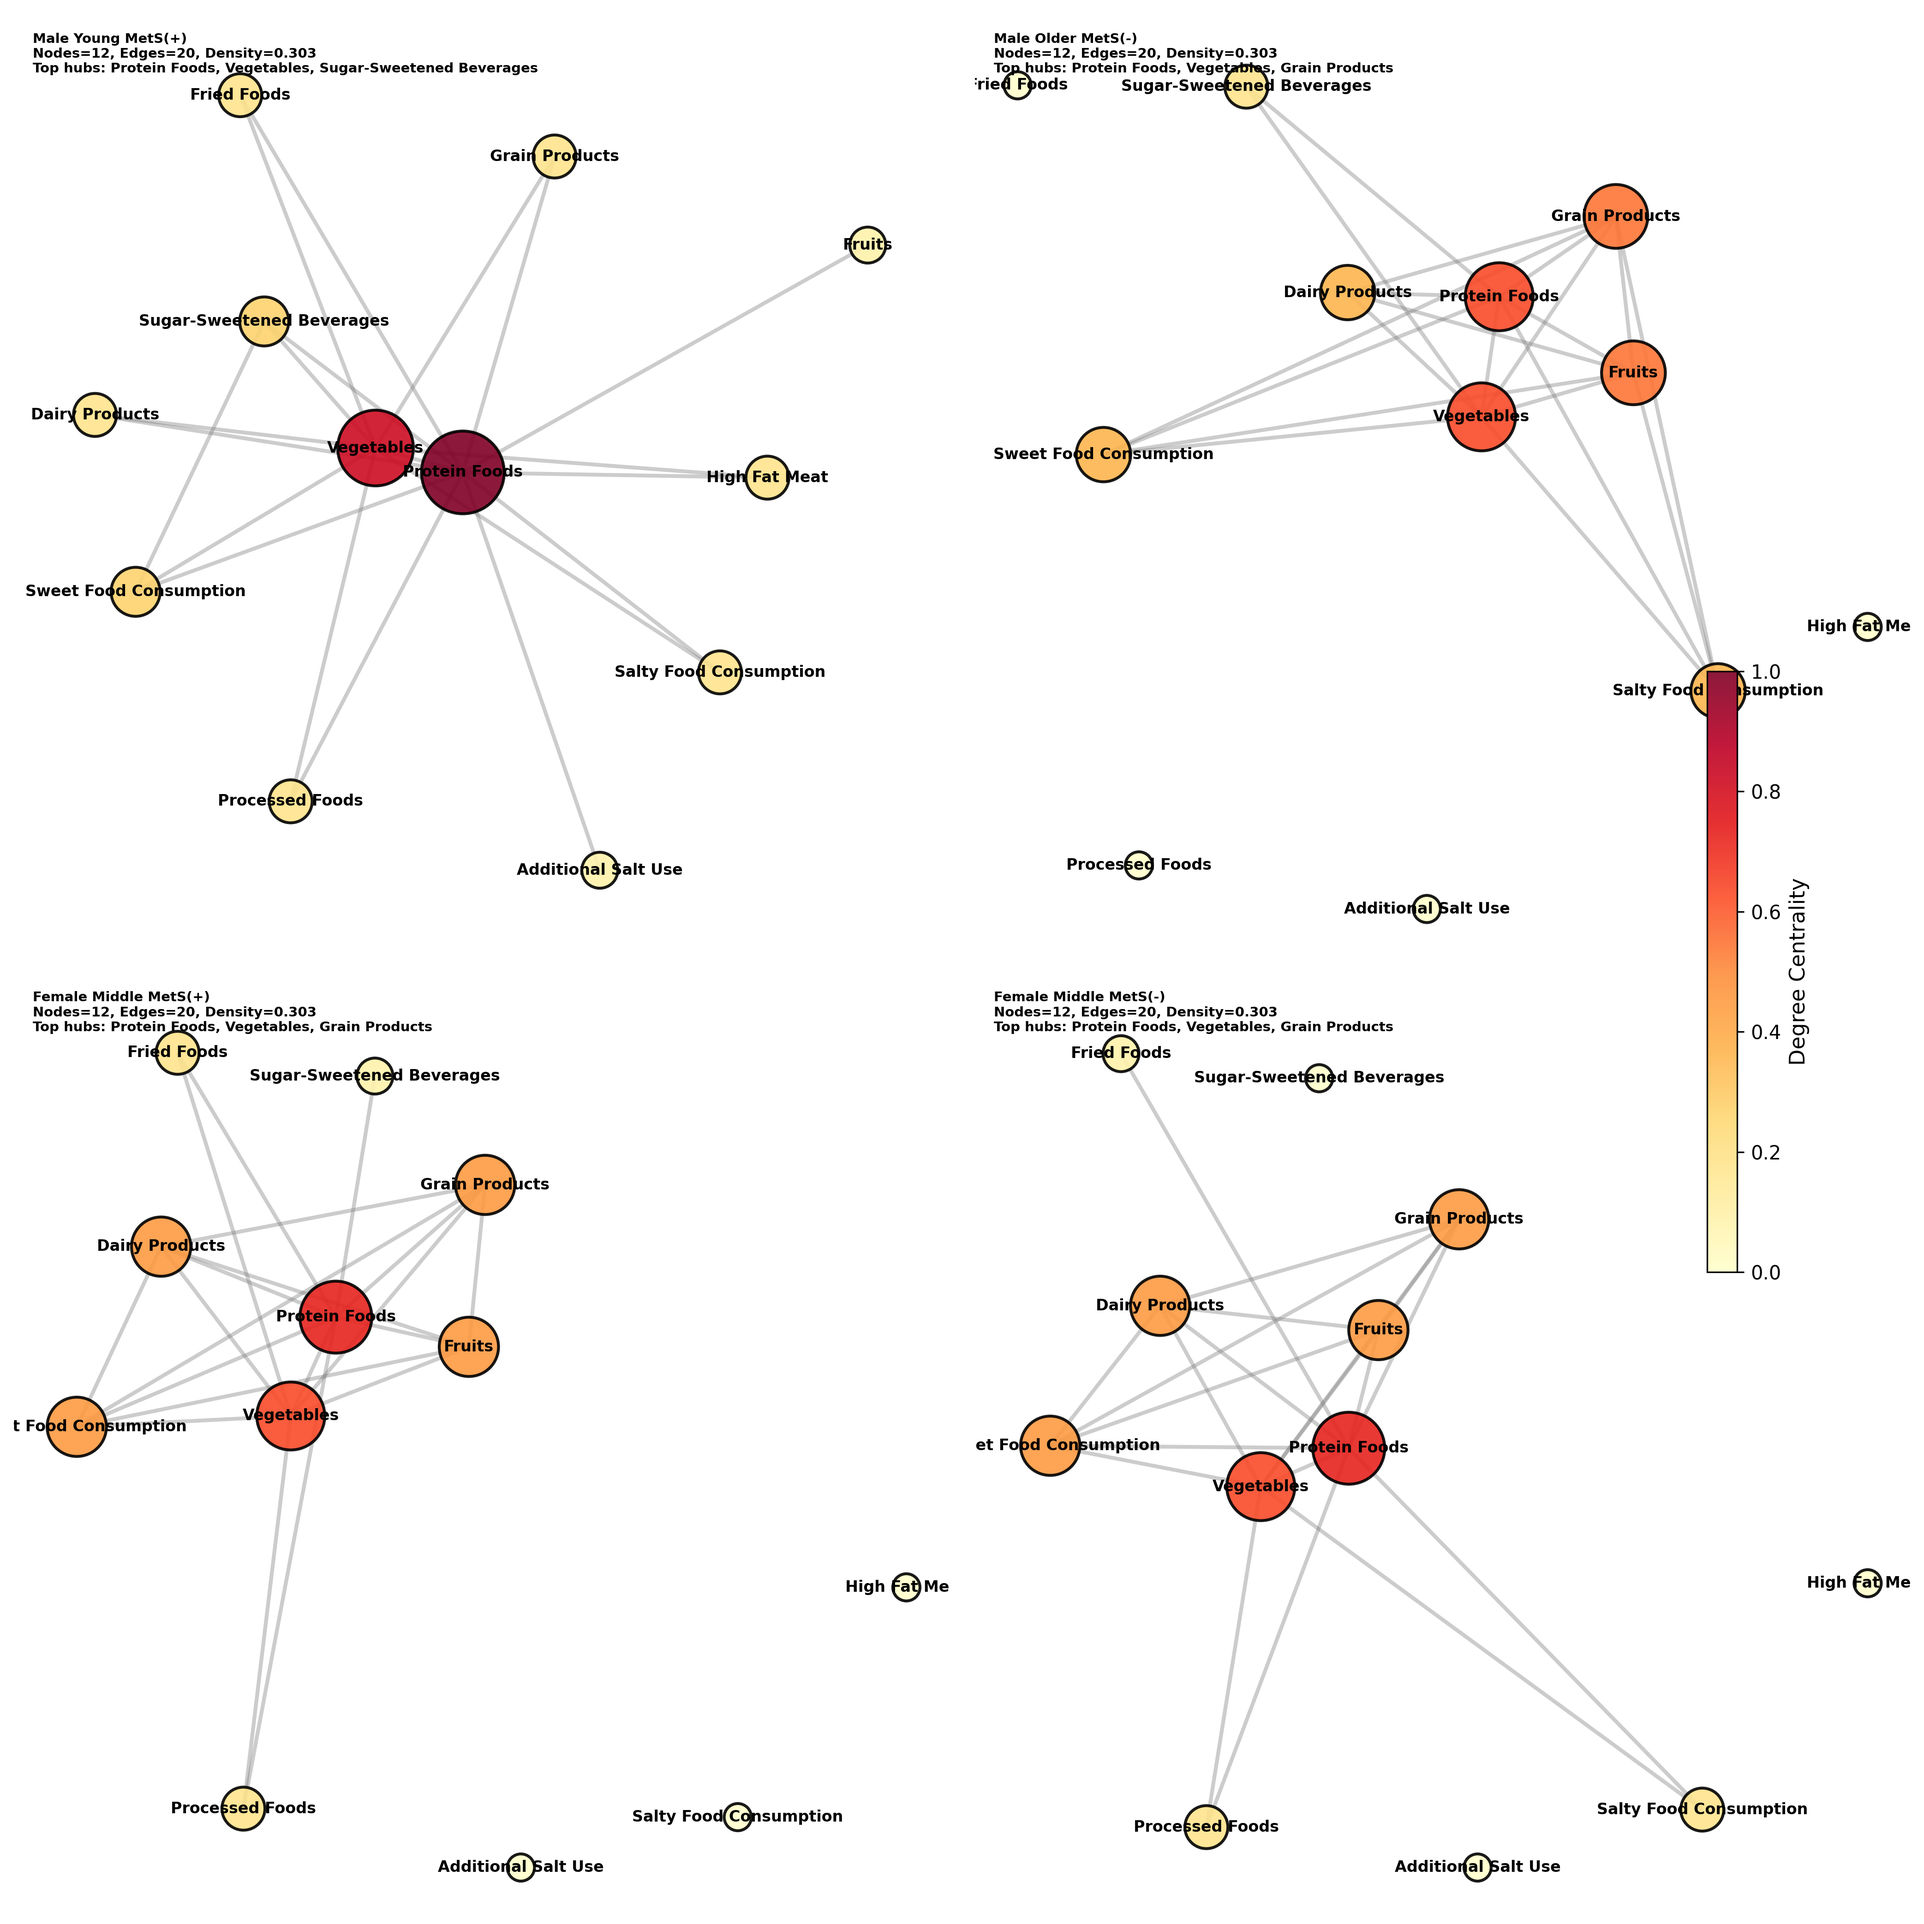
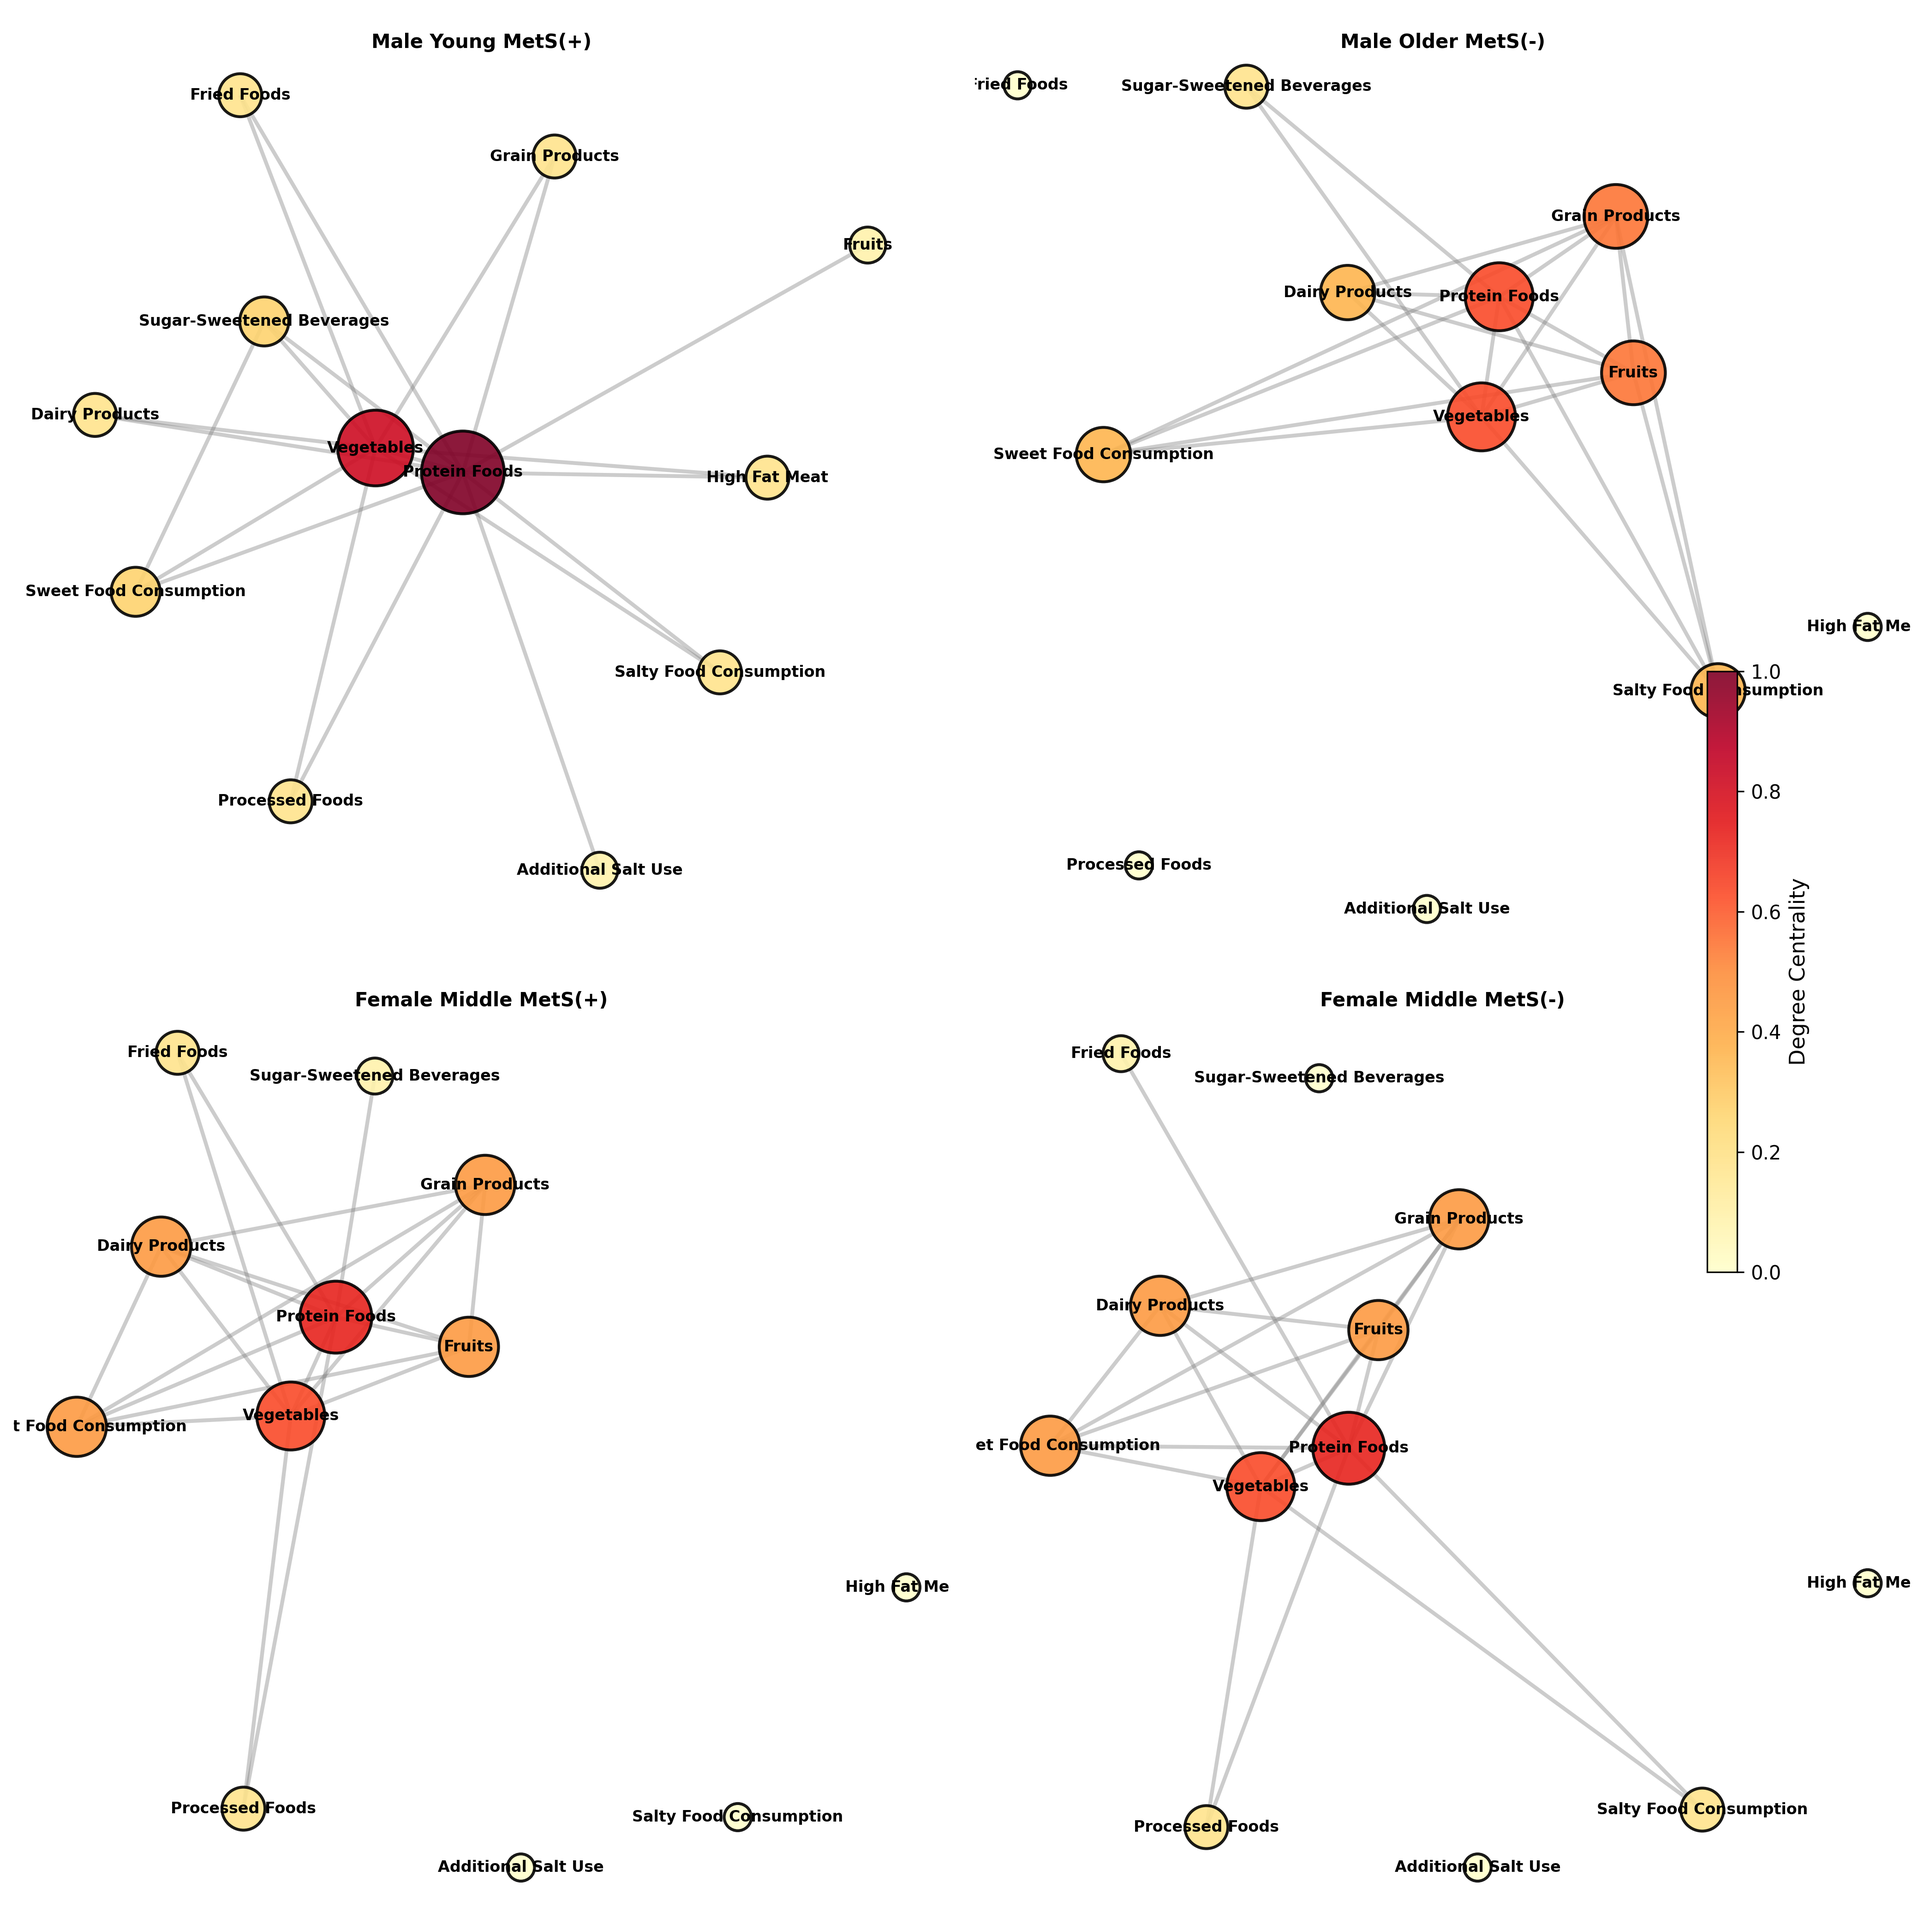
fix: Figure 1 제목만 가운데 표시 - 설명 제거
변경 사항:
- 패널 제목을 가운데 정렬
- Nodes, Edges, Density, Top hubs 설명 모두 제거
- 제목만 간결하게 표시
- 폰트 크기 10pt
- 더 깔끔한 레이아웃

diff --git a/ver3.0_2511/src/generate_main_figures_tables.py b/ver3.0_2511/src/generate_main_figures_tables.py
@@ -221,22 +221,11 @@ def generate_figure_1():
         # Draw labels
         nx.draw_networkx_labels(G, pos, ax=ax, font_size=8, font_weight='bold')
         
-        # Panel info text (inside panel, top-left) - no box, just text
-        n_nodes = G.number_of_nodes()
-        n_edges = G.number_of_edges()
-        density = nx.density(G)
-        
-        # Get top 3 hubs
-        top_hubs = sorted(centrality.items(), key=lambda x: x[1], reverse=True)[:3]
-        hub_names = ', '.join([h[0] for h in top_hubs])
-        
-        info_text = f"{KEY_GROUP_LABELS[idx]}\n"
-        info_text += f"Nodes={n_nodes}, Edges={n_edges}, Density={density:.3f}\n"
-        info_text += f"Top hubs: {hub_names}"
-        
-        # Add text directly on the plot without background box
-        ax.text(0.02, 0.98, info_text, transform=ax.transAxes,
-                fontsize=7, fontweight='bold', verticalalignment='top',
+        # Panel title (centered at top) - only title, no description
+        # Add title centered at the top
+        ax.text(0.5, 0.98, KEY_GROUP_LABELS[idx], transform=ax.transAxes,
+                fontsize=10, fontweight='bold', 
+                horizontalalignment='center', verticalalignment='top',
                 color='black')
         
         ax.axis('off')
